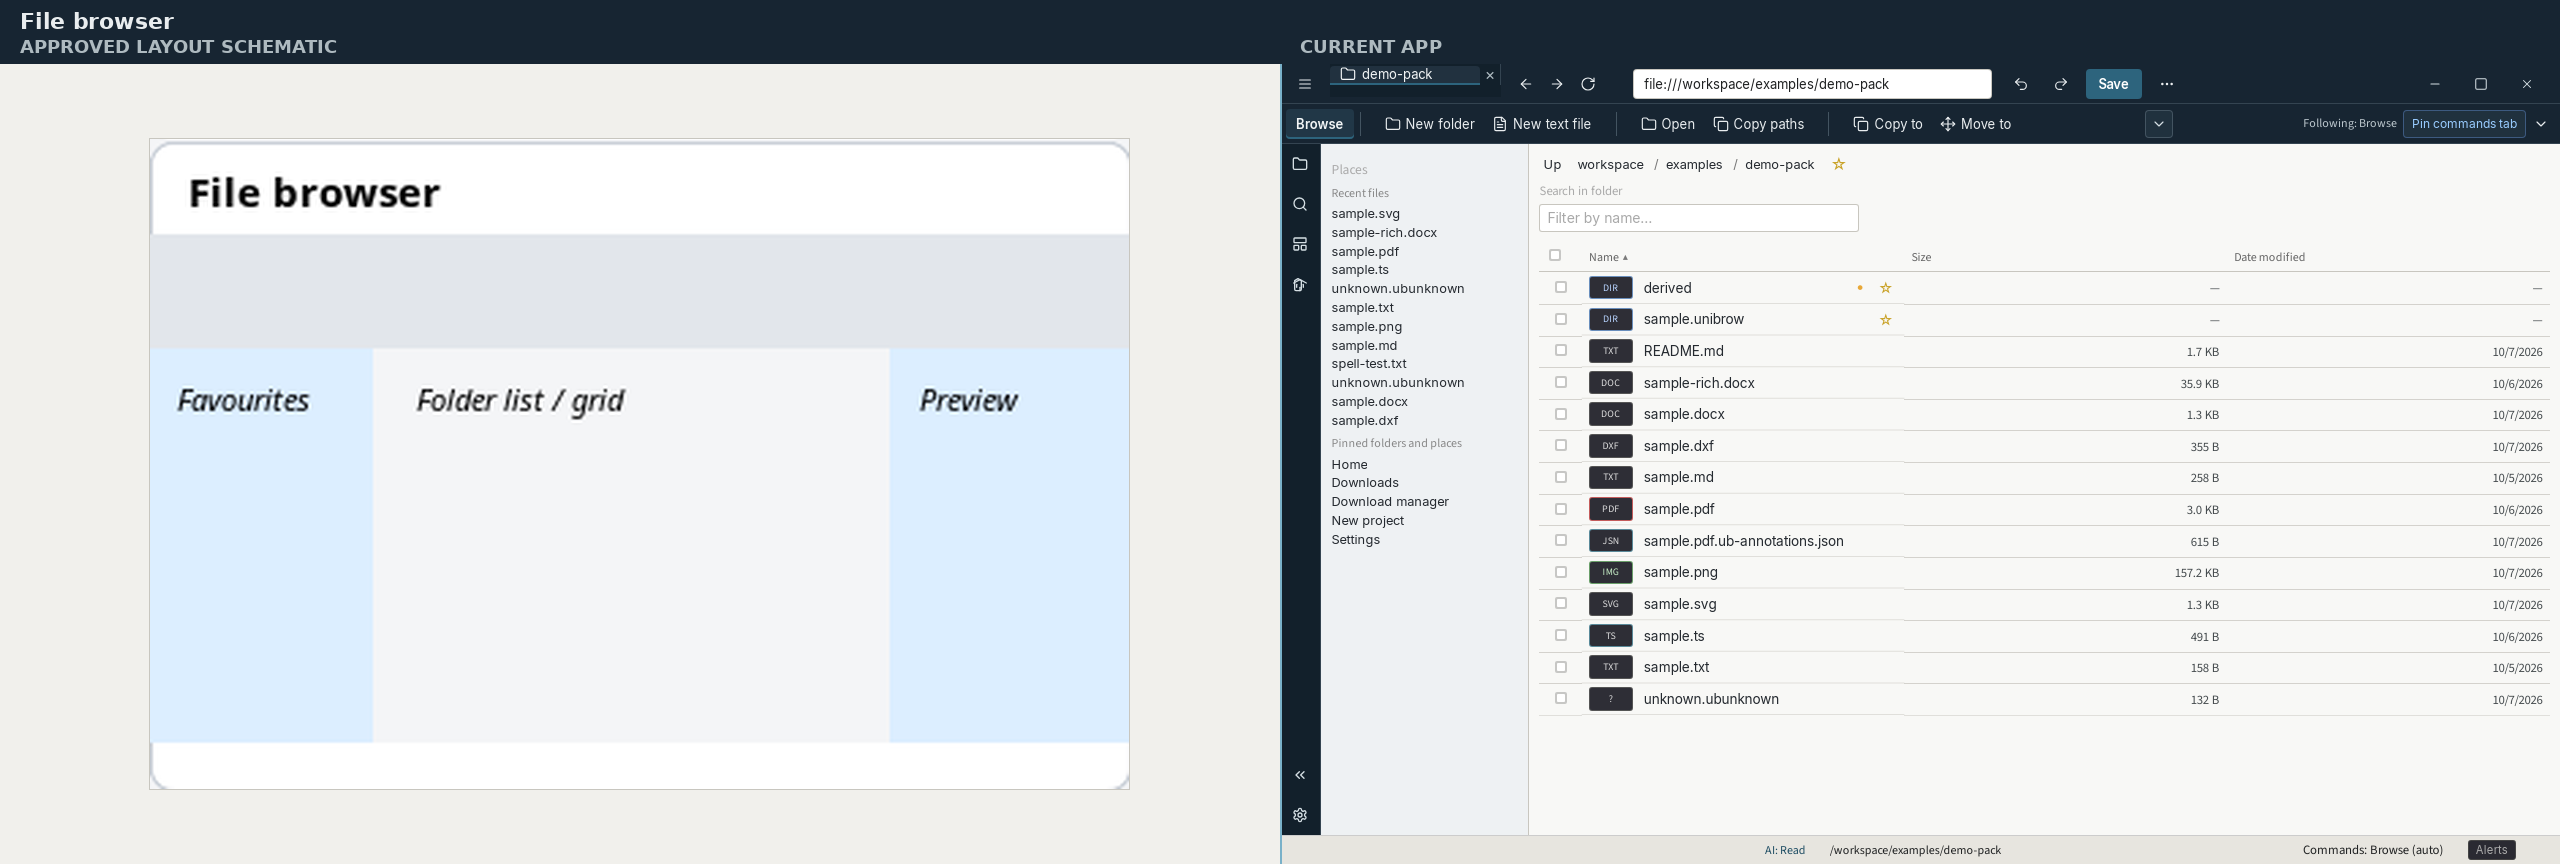
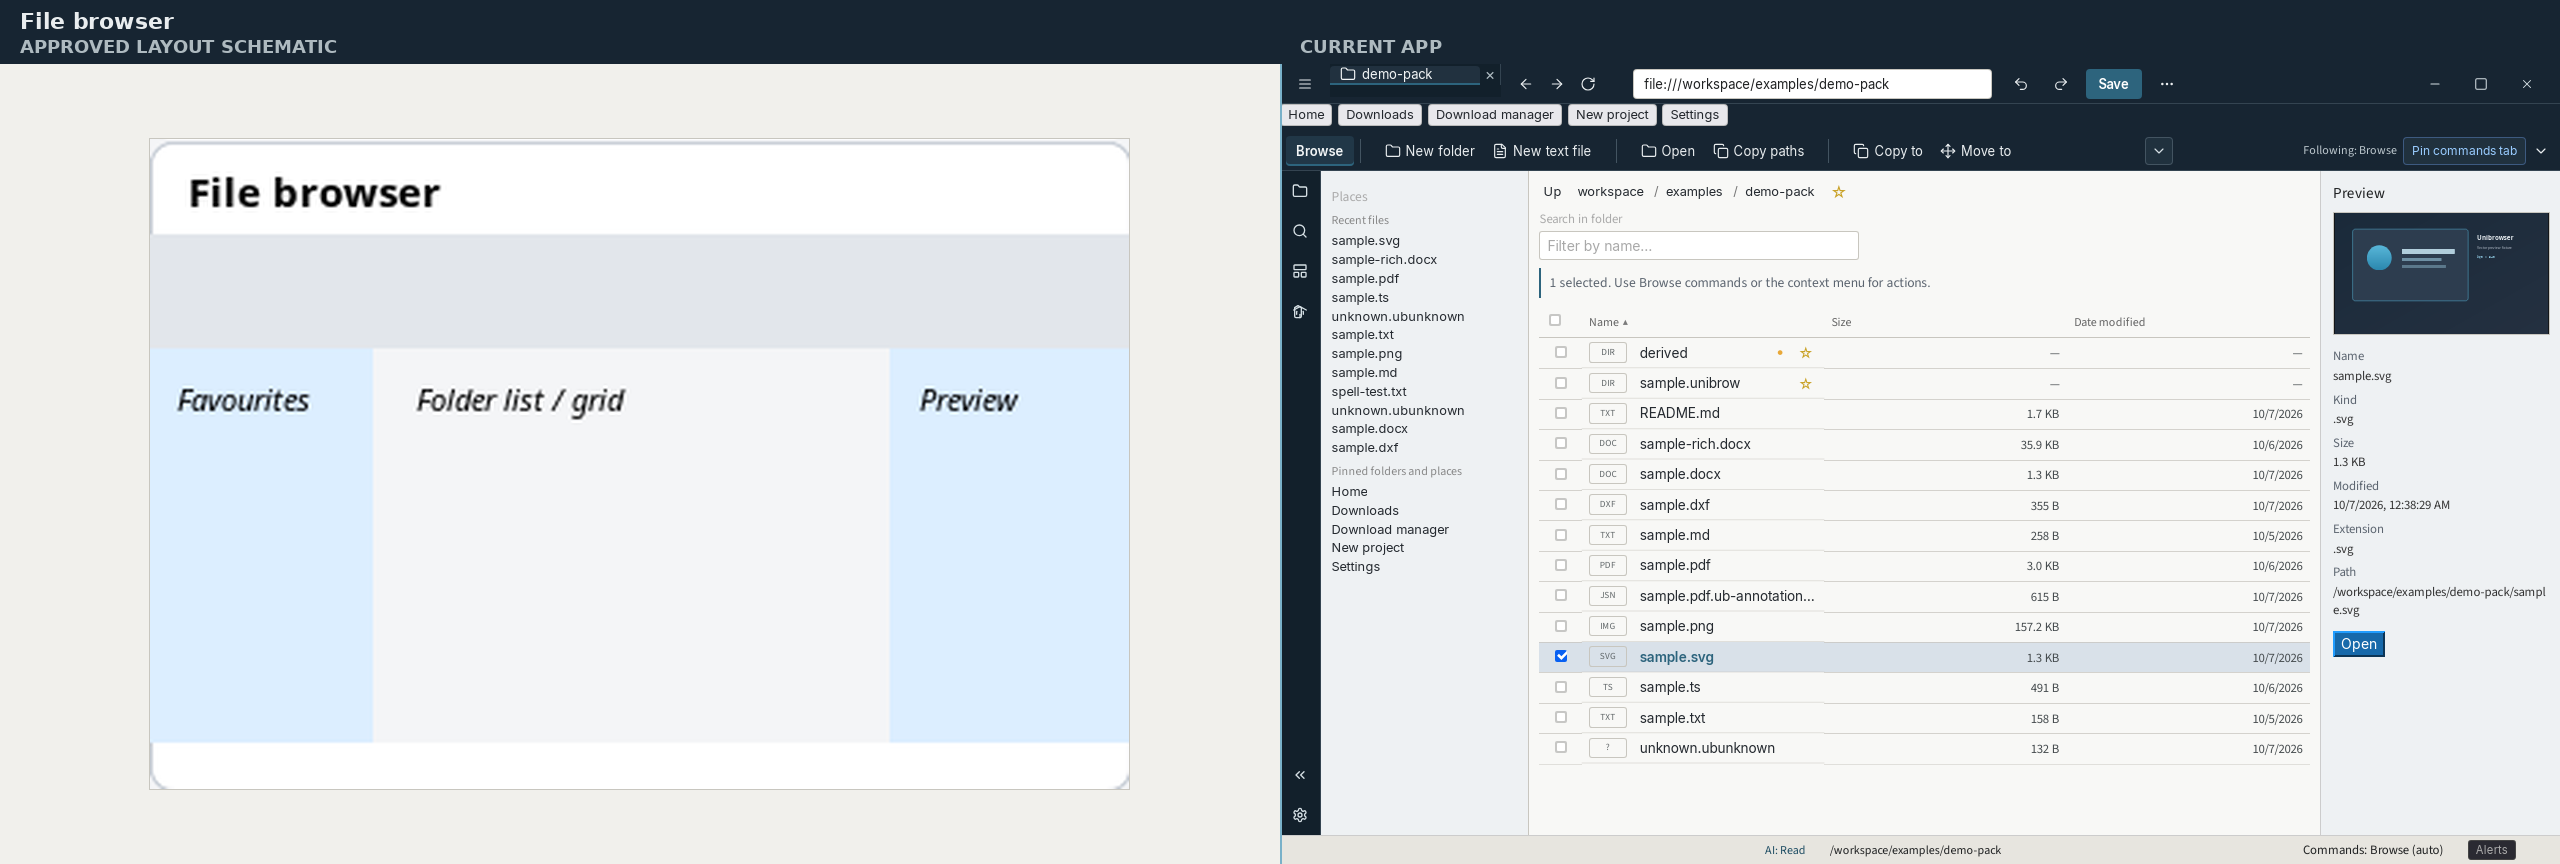
UI-26: Keep File browser preview present at 1280
Preserve joined Places, list, and Preview at 1280 with selection capture,
lighter file-type badges, and clearer preview empty copy.

diff --git a/crates/unibrowser-desktop/src/filesPanel.ts b/crates/unibrowser-desktop/src/filesPanel.ts
@@ -393,7 +393,7 @@ async function showPropertiesPanel(path: string, deps: FilesPanelDeps) {
     panel.innerHTML = "";
     const title = document.createElement("h3");
     title.className = "files-side-title";
-    title.textContent = "Preview";
+    title.textContent = t("files.previewHeading");
     panel.appendChild(title);
 
     if (!props.is_dir && props.extension && IMAGE_PREVIEW_EXT.has(props.extension.toLowerCase())) {
@@ -403,6 +403,11 @@ async function showPropertiesPanel(path: string, deps: FilesPanelDeps) {
       preview.src = convertFileSrc(props.path);
       preview.alt = props.name;
       panel.appendChild(preview);
+    } else if (!props.is_dir) {
+      const note = document.createElement("p");
+      note.className = "files-side-note";
+      note.textContent = t("files.previewUnsupported");
+      panel.appendChild(note);
     }
 
     const dl = document.createElement("dl");

diff --git a/crates/unibrowser-desktop/src/demoState.ts b/crates/unibrowser-desktop/src/demoState.ts
@@ -158,6 +158,7 @@ export async function applyDemoState(raw: string) {
       case "files":
         await invoke("open_path", { path: "~", line: null }).catch(() => undefined);
         break;
+      case "ui26-file-preview":
       case "ui13-files-preview": {
         const links = await waitForElement<HTMLButtonElement>(".files-table .file-link");
         if (!links) {

diff --git a/docs/design/ui-implementation-plan.md b/docs/design/ui-implementation-plan.md
@@ -826,6 +826,9 @@ Fail rule:
 
 ### UI-26: Keep File browser preview present at 1280
 
+Status: done 2026-10-07. Preview pane stays visible at 1280 with selection capture,
+lighter type badges, and useful unsupported-preview copy.
+
 Work:
 
 - Preserve Places, file list, and Preview as joined regions at 1280.
